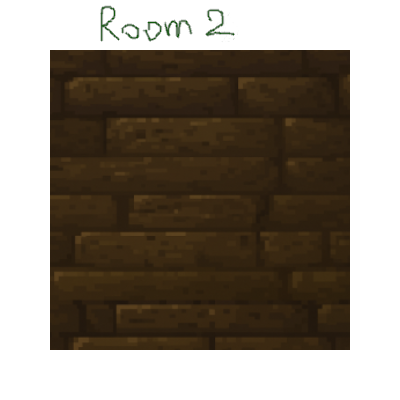
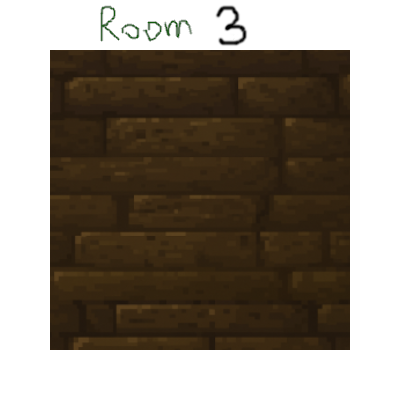
dungeon map updated, 6 rooms, 4 with bosses, 1 main lobby, 1 treasury. doors handling works correctly

Changed region(s): [[0.51, 0.0, 0.63, 0.12]]

diff --git a/src/Dungeon.java b/src/Dungeon.java
@@ -10,6 +10,7 @@ public class Dungeon {
     private int currentRoomId;
     private JFrame frame;
     private MyPanel panel;
+    private boolean accessTreasury;
     private int health;
     private int strength;
     
@@ -18,6 +19,7 @@ public class Dungeon {
         currentRoomId = 0;
         health = 10;
         strength = 0;
+        accessTreasury = false;
         
         // Создаем окно и панель
         panel = new MyPanel(this); // все картинки/функции для обновления главные вызываются отсюда
@@ -32,33 +34,64 @@ public class Dungeon {
     }
     
     private void initializeRooms() {
-        rooms = new RoomData[3];
+        rooms = new RoomData[6];
         
         // первая комната, дверь справа только
-        rooms[0] = new RoomData(PathFinder.findFile("misc/Rooms/Room1.png"), 200, 200);
-        rooms[0].addDoor(new Door(300, 180, 35, 40, 1)); // дверь справа
+        rooms[0] = new RoomData(PathFinder.findFile("misc/Rooms/Room0.png"), 200, 200);
+        rooms[0].addDoor(new Door(175, 50, 35, 40, 1)); // первый уровень
+        rooms[0].addDoor(new Door(175, 310, 40, 40, 4)); // комната босса
+        rooms[0].addDoor(new Door(50, 180, 40, 40, 5)); // сокровищница
         rooms[0].addKey();
 
-        // вторая. дверь справа и слева.
-        rooms[1] = new RoomData(PathFinder.findFile("misc/Rooms/Room2.png"), 200, 200);
-        rooms[1].addDoor(new Door(50, 180, 40, 40, 0)); // дверь слева
-        rooms[1].addDoor(new Door(300, 180, 35, 40, 2)); // дверь справа
+        // вторая комната
+        rooms[1] = new RoomData(PathFinder.findFile("misc/Rooms/Room1.png"), 200, 200);
+        rooms[1].addDoor(new Door(175, 310, 40, 40, 0)); // дом
+        rooms[1].addDoor(new Door(300, 200, 35, 40, 2)); // второй уровень
         rooms[1].addKey();
         
-
-        rooms[2] = new RoomData(PathFinder.findFile("misc/Rooms/Room3.png"), 200, 200);
-        rooms[2].addDoor(new Door(50, 180, 40, 40, 1)); // дверь слева обратно
+        // третья комната
+        rooms[2] = new RoomData(PathFinder.findFile("misc/Rooms/Room2.png"), 200, 200);
+        rooms[2].addDoor(new Door(175, 50, 40, 40, 1)); // первый уровень
+        rooms[2].addDoor(new Door(300, 200, 35, 40, 3)); // третий уровень
         rooms[2].addKey();
+
+        // четвертая комната
+        rooms[3] = new RoomData(PathFinder.findFile("misc/Rooms/Room3.png"), 200, 200);
+        rooms[3].addDoor(new Door(50, 180, 40, 40, 2)); // второй уровень
+        rooms[3].addDoor(new Door(175, 310, 35, 40, 4)); // босс
+        rooms[3].addKey();
+
+        // пятая комната
+        rooms[4] = new RoomData(PathFinder.findFile("misc/Rooms/Room4.png"), 200, 200);
+        rooms[4].addDoor(new Door(300, 200, 40, 40, 3)); // третий уровень
+        rooms[4].addDoor(new Door(175, 50, 35, 40, 0)); // дом
+        rooms[4].addKey();
+        
+        // шестая комната
+        rooms[5] = new RoomData(PathFinder.findFile("misc/Rooms/Room5.png"), 200, 200);
+        rooms[5].addDoor(new Door(300, 200, 40, 40, 0)); // дом
+    }
+
+    public boolean isTreasuryAvailable() {
+        return accessTreasury;
+    }
+
+    public void makeTreasuryAvalilable() {
+        accessTreasury = true;
     }
     
     public RoomData getCurrentRoom() {
         return rooms[currentRoomId];
     }
+
+    public RoomData getSpecificRoom(int id) {
+        return rooms[id];
+    }
     
     public void changeRoom(int newRoomId) throws IOException {
         rooms[currentRoomId].setVisited(true);
         
-        if (rooms[newRoomId].isVisited()) {
+        if ((newRoomId == 5 && accessTreasury) || rooms[newRoomId].isVisited()) {
             currentRoomId = newRoomId;
             panel.loadCurrentRoom();
         } else {

diff --git a/src/MyPanel.java b/src/MyPanel.java
@@ -66,7 +66,7 @@ public class MyPanel extends JPanel implements KeyEventDispatcher {
 
         // отладка ключа (желтый) (вместо этого надо будет картинку вывести)
         Key key = room.getKey();
-        if (!key.isKeyCollected()) {
+        if (key != null && !key.isKeyCollected()) {
             g.setColor(java.awt.Color.YELLOW);
             g.drawRect((int)key.getX(), (int)key.getY(), 15, 15);
         }
@@ -92,7 +92,7 @@ public class MyPanel extends JPanel implements KeyEventDispatcher {
     private void checkKeyProximity(Graphics g) {
         RoomData room = dungeon.getCurrentRoom();
         Key key = room.getKey();
-        if (key.isPlayerNear(alex.getX(), alex.getY())) {
+        if (key != null && key.isPlayerNear(alex.getX(), alex.getY())) {
             g.drawString("Нажми F", (int)key.getX(), (int)key.getY() - 10);
         }
     }
@@ -107,6 +107,7 @@ public class MyPanel extends JPanel implements KeyEventDispatcher {
     public boolean dispatchKeyEvent(KeyEvent key) {
         int keyCode = key.getKeyCode();
         RoomData room = dungeon.getCurrentRoom();
+        int roomID = dungeon.getCurrentRoomId();
         Key roomKey = room.getKey();
         
         if (key.getID() == KeyEvent.KEY_PRESSED) {
@@ -127,7 +128,12 @@ public class MyPanel extends JPanel implements KeyEventDispatcher {
                     eKeyPressed = true;
                     break;
                 case KeyEvent.VK_F:
-                    roomKey.collectKey();
+                    if (roomKey != null) {
+                        roomKey.collectKey();
+                        if (roomID == 4) {
+                            dungeon.makeTreasuryAvalilable();
+                        }
+                    }
                     break;
 
             }
@@ -174,7 +180,12 @@ public class MyPanel extends JPanel implements KeyEventDispatcher {
             if (door.isObjectNear(alex.getX(), alex.getY())) {
                 int nextRoomId = door.getTargetRoomId();
 
-                if (nextRoomId > roomId && !room.getKey().isKeyCollected()) {
+                // говнокод. упростить. (не считая перрвый if)
+                if (nextRoomId == 5 && !dungeon.isTreasuryAvailable()) {
+                    return;
+                } else if ((nextRoomId == 4 && roomId == 0) && !dungeon.getSpecificRoom(nextRoomId).getKey().isKeyCollected()) { // переход между боссом и домом
+                    return;
+                } else if ((nextRoomId > roomId || nextRoomId == 0 && roomId == 4) && !room.getKey().isKeyCollected()) { 
                     // errorMessage = "Pick up the key!";        чуть позже. надо сделать так чтобы выскакивало предупреждение на условные 10 секунд хз. короче функцию написать для всяких выводов.
                     return;
                 }

diff --git a/src/Door.java b/src/Door.java
@@ -13,8 +13,9 @@ public class Door { // позиция, размеры двери, и то куд
     }
     
     public boolean isObjectNear(double objectX, double objectY) { // дубликаты часто используются. надо наверное в отдельный класс items вынести эти функции
-        return objectX >= x && objectX <= x + width &&
-               objectY >= y && objectY <= y + height;
+        int nearArea = 10;
+        return objectX >= x && objectX <= x + width + nearArea &&
+               objectY >= y && objectY <= y + height + nearArea;
     }
     
     public int getTargetRoomId() {
